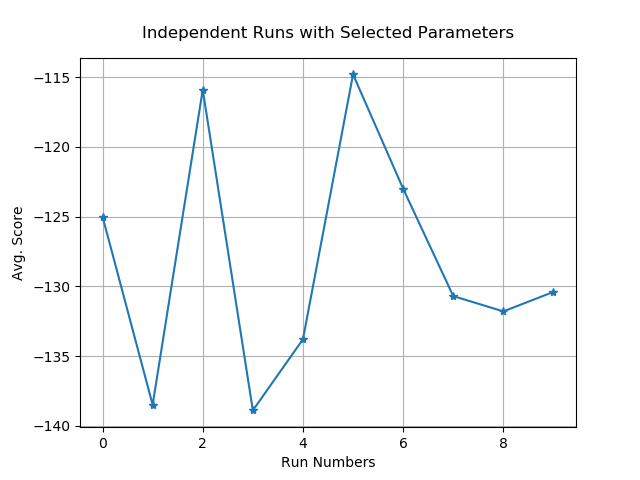
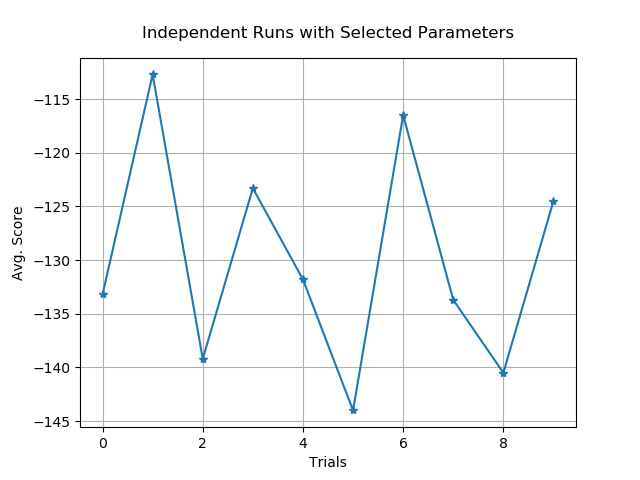
UPDATED: report.

diff --git a/Assignment9/Code/assignments/StartingPoint-QLearningMountainCar.py b/Assignment9/Code/assignments/StartingPoint-QLearningMountainCar.py
@@ -105,7 +105,7 @@ if __name__ == '__main__':
         data.append((i, avg_score))
 
     draw_accuracies([data],
-                    'Run Numbers',
+                    'Trials',
                     'Avg. Score',
                     'Independent Runs with Selected Parameters',
                     mt_cart_best_params_img_fname, [], title_y=1.03)

diff --git a/Assignment9/Report/prob1_reinforcement_gym.md b/Assignment9/Report/prob1_reinforcement_gym.md
@@ -4,21 +4,37 @@
 
 ### QLearningzCartPole
 
-| runNumber | Trial 1 | Trial 2 | Trial 3 | Trial 4 | Trial 5 | Trial 6 | Trial 7 | Trial 8 | Trial 9 | Trial 10 |
-|:-:|:-:|:-:|:-:|:-:|:-:|:-:|:-:|:-:|:-:|:-:|
-|0|200.0|200.0|200.0|200.0|200.0|200.0|200.0|200.0|200.0|200.0|
-|1|200.0|186.0|200.0|200.0|200.0|200.0|200.0|200.0|128.0|200.0|
-|2|200.0|200.0|200.0|200.0|200.0|200.0|197.0|200.0|200.0|200.0|
-|3|200.0|200.0|200.0|200.0|200.0|189.0|200.0|200.0|200.0|200.0|
-|4|200.0|200.0|200.0|200.0|200.0|200.0|200.0|200.0|125.0|200.0|
-|5|200.0|200.0|200.0|200.0|200.0|200.0|200.0|200.0|123.0|200.0|
-|6|200.0|200.0|200.0|200.0|200.0|200.0|200.0|200.0|168.0|200.0|
-|7|200.0|200.0|200.0|200.0|200.0|175.0|200.0|200.0|119.0|200.0|
-|8|200.0|200.0|200.0|200.0|200.0|182.0|200.0|200.0|129.0|200.0|
-|9|200.0|200.0|200.0|200.0|200.0|200.0|200.0|200.0|200.0|200.0|
-| Average |200.0|198.6|200.0|200.0|200.0|194.6|199.7|200.0|159.2|200.0|
+##### Run the starting point code 10 times with your implementation (learn the policy then evaluate it as in the starting point). Hand in a table of the scores you achieved on each of the 10 iterations as well as the average. [ Many runs should score 200.0 ]
+
+Ran 10 times the script and aggregate the total rewards and majority of average rewards were 200.0.
+
+  | runNumber | Trial 1 | Trial 2 | Trial 3 | Trial 4 | Trial 5 | Trial 6 | Trial 7 | Trial 8 | Trial 9 | Trial 10 |
+  |:-:|:-:|:-:|:-:|:-:|:-:|:-:|:-:|:-:|:-:|:-:|
+  |0|200.0|200.0|200.0|200.0|200.0|200.0|200.0|200.0|200.0|200.0|
+  |1|200.0|186.0|200.0|200.0|200.0|200.0|200.0|200.0|128.0|200.0|
+  |2|200.0|200.0|200.0|200.0|200.0|200.0|197.0|200.0|200.0|200.0|
+  |3|200.0|200.0|200.0|200.0|200.0|189.0|200.0|200.0|200.0|200.0|
+  |4|200.0|200.0|200.0|200.0|200.0|200.0|200.0|200.0|125.0|200.0|
+  |5|200.0|200.0|200.0|200.0|200.0|200.0|200.0|200.0|123.0|200.0|
+  |6|200.0|200.0|200.0|200.0|200.0|200.0|200.0|200.0|168.0|200.0|
+  |7|200.0|200.0|200.0|200.0|200.0|175.0|200.0|200.0|119.0|200.0|
+  |8|200.0|200.0|200.0|200.0|200.0|182.0|200.0|200.0|129.0|200.0|
+  |9|200.0|200.0|200.0|200.0|200.0|200.0|200.0|200.0|200.0|200.0|
+  | Average |200.0|198.6|200.0|200.0|200.0|194.6|199.7|200.0|159.2|200.0|
+
+***
 
 ### QLearningMountainCar
+
+##### Tune the following 4 parameters:
+
+* discountRate
+* actionProbabilityBase
+* trainingIterations
+* Assignment7Support.mountainCarBinsPerDimension
+
+##### For each produce a chart with at least 5 settings of the parameter value on the x-axis and the average score across 10 policy learning runs on the y axis (10x learn a policy then evaluate it as the sample code does, get the average score). Consider the properties of this problem and use your understanding to guide which regions you explore.
+
 
 * Average Score for Parameter Sweeps
   
@@ -35,8 +51,9 @@
   |-|-|
   | ![mt_cart_trainingIterations](img/mt_cart_trainingIterations.png)| ![mt_cart_BinsPerDimensions](img/mt_cart_BinsPerDimensions.png)|
 
-  * Action Probability Base (k) value less than and equals to 1.0  doesn't improve policy to control the carts. It means it doesn't have high Q values enough to make better the range. Increasing discount rates within chosen range get closer to the optimal action. And training iteration also helped to converge to the optimal control space. Similarly, more state space helped to reach the best results.
+  * Action Probability Base (k) value less than and equals to 1.0  doesn't improve policy to control the carts (-200). It means it doesn't have high Q values enough to make better the range. Increasing discount rates within the chosen range, 0.5 - 0.9, get closer to the optimal action. And training iteration also helped to converge to the optimal control space. Similarly, more state space helped to reach the best results.
 
+##### Produce an improved parameter setting. You may change the 4 you tuned and you may change any other that you think matters (and do additional tuning).
 * Improved parameter setting:
   Given the results of paramter sweep data, I picked following configuration.
 
@@ -49,3 +66,21 @@
   And here is the results from running 10 times policy learning.
 
   ![](img/mt_cart_best_params.png)
+
+  | runNumber | Trial 1 | Trial 2 | Trial 3 | Trial 4 | Trial 5 | Trial 6 | Trial 7 | Trial 8 | Trial 9 | Trial 10 |
+  |:-:|:-:|:-:|:-:|:-:|:-:|:-:|:-:|:-:|:-:|:-:|
+  |0|-150.0|-85.0|-147.0|-89.0|-155.0|-163.0|-138.0|-151.0|-136.0|-145.0|
+  |1|-137.0|-86.0|-146.0|-134.0|-138.0|-147.0|-97.0|-143.0|-153.0|-138.0|
+  |2|-152.0|-105.0|-93.0|-142.0|-138.0|-155.0|-147.0|-140.0|-136.0|-147.0|
+  |3|-104.0|-148.0|-144.0|-108.0|-135.0|-163.0|-94.0|-151.0|-149.0|-89.0|
+  |4|-104.0|-90.0|-143.0|-107.0|-130.0|-111.0|-106.0|-142.0|-142.0|-139.0|
+  |5|-104.0|-146.0|-145.0|-110.0|-136.0|-144.0|-137.0|-88.0|-152.0|-91.0|
+  |6|-142.0|-106.0|-145.0|-107.0|-136.0|-129.0|-139.0|-149.0|-109.0|-137.0|
+  |7|-150.0|-104.0|-142.0|-138.0|-105.0|-143.0|-94.0|-143.0|-138.0|-88.0|
+  |8|-152.0|-106.0|-143.0|-161.0|-106.0|-139.0|-107.0|-85.0|-154.0|-135.0|
+  |9|-137.0|-151.0|-144.0|-137.0|-139.0|-146.0|-106.0|-145.0|-136.0|-136.0|
+  | Average |-133.2|-112.7|-139.2|-123.3|-131.8|-144.0|-116.5|-133.7|-140.5|-124.5|
+  
+  Total average: = -129.94
+
+***

diff --git a/Assignment9/Report/mt_cart_scores.md b/Assignment9/Report/mt_cart_scores.md
@@ -1,13 +1,15 @@
 | runNumber | Trial 1 | Trial 2 | Trial 3 | Trial 4 | Trial 5 | Trial 6 | Trial 7 | Trial 8 | Trial 9 | Trial 10 |
 |:-:|:-:|:-:|:-:|:-:|:-:|:-:|:-:|:-:|:-:|:-:|
-|0|-107.0|-104.0|-107.0|-143.0|-106.0|-160.0|-136.0|-109.0|-101.0|-141.0|
-|1|-109.0|-148.0|-163.0|-136.0|-153.0|-91.0|-104.0|-110.0|-138.0|-138.0|
-|2|-144.0|-105.0|-87.0|-136.0|-150.0|-148.0|-106.0|-139.0|-139.0|-139.0|
-|3|-142.0|-149.0|-143.0|-87.0|-107.0|-84.0|-144.0|-110.0|-140.0|-139.0|
-|4|-158.0|-155.0|-107.0|-159.0|-143.0|-132.0|-137.0|-143.0|-89.0|-137.0|
-|5|-159.0|-105.0|-107.0|-150.0|-106.0|-130.0|-88.0|-149.0|-147.0|-106.0|
-|6|-107.0|-162.0|-88.0|-136.0|-107.0|-94.0|-135.0|-139.0|-137.0|-138.0|
-|7|-109.0|-149.0|-87.0|-136.0|-151.0|-93.0|-141.0|-148.0|-143.0|-140.0|
-|8|-108.0|-158.0|-164.0|-137.0|-149.0|-130.0|-134.0|-151.0|-146.0|-139.0|
-|9|-107.0|-150.0|-106.0|-169.0|-166.0|-86.0|-105.0|-109.0|-138.0|-87.0|
-| Average |-125.0|-138.5|-115.9|-138.9|-133.8|-114.8|-123.0|-130.7|-131.8|-130.4|
+|0|-150.0|-85.0|-147.0|-89.0|-155.0|-163.0|-138.0|-151.0|-136.0|-145.0|
+|1|-137.0|-86.0|-146.0|-134.0|-138.0|-147.0|-97.0|-143.0|-153.0|-138.0|
+|2|-152.0|-105.0|-93.0|-142.0|-138.0|-155.0|-147.0|-140.0|-136.0|-147.0|
+|3|-104.0|-148.0|-144.0|-108.0|-135.0|-163.0|-94.0|-151.0|-149.0|-89.0|
+|4|-104.0|-90.0|-143.0|-107.0|-130.0|-111.0|-106.0|-142.0|-142.0|-139.0|
+|5|-104.0|-146.0|-145.0|-110.0|-136.0|-144.0|-137.0|-88.0|-152.0|-91.0|
+|6|-142.0|-106.0|-145.0|-107.0|-136.0|-129.0|-139.0|-149.0|-109.0|-137.0|
+|7|-150.0|-104.0|-142.0|-138.0|-105.0|-143.0|-94.0|-143.0|-138.0|-88.0|
+|8|-152.0|-106.0|-143.0|-161.0|-106.0|-139.0|-107.0|-85.0|-154.0|-135.0|
+|9|-137.0|-151.0|-144.0|-137.0|-139.0|-146.0|-106.0|-145.0|-136.0|-136.0|
+| Average |-133.2|-112.7|-139.2|-123.3|-131.8|-144.0|-116.5|-133.7|-140.5|-124.5|
+
+Total average: = -129.94

diff --git a/Assignment9/Report/mt_cart_0.md b/Assignment9/Report/mt_cart_0.md
@@ -1,13 +1,13 @@
 | runNumber | Rewards |
 |:-:|:-:|
-|0|-107.0|
-|1|-109.0|
-|2|-144.0|
-|3|-142.0|
-|4|-158.0|
-|5|-159.0|
-|6|-107.0|
-|7|-109.0|
-|8|-108.0|
-|9|-107.0|
-| Average |-125.0|
+|0|-150.0|
+|1|-137.0|
+|2|-152.0|
+|3|-104.0|
+|4|-104.0|
+|5|-104.0|
+|6|-142.0|
+|7|-150.0|
+|8|-152.0|
+|9|-137.0|
+| Average |-133.2|

diff --git a/Assignment9/Report/mt_cart_4.md b/Assignment9/Report/mt_cart_4.md
@@ -1,13 +1,13 @@
 | runNumber | Rewards |
 |:-:|:-:|
-|0|-106.0|
-|1|-153.0|
-|2|-150.0|
-|3|-107.0|
-|4|-143.0|
-|5|-106.0|
-|6|-107.0|
-|7|-151.0|
-|8|-149.0|
-|9|-166.0|
-| Average |-133.8|
+|0|-155.0|
+|1|-138.0|
+|2|-138.0|
+|3|-135.0|
+|4|-130.0|
+|5|-136.0|
+|6|-136.0|
+|7|-105.0|
+|8|-106.0|
+|9|-139.0|
+| Average |-131.8|

diff --git a/Assignment9/Report/mt_cart_8.md b/Assignment9/Report/mt_cart_8.md
@@ -1,13 +1,13 @@
 | runNumber | Rewards |
 |:-:|:-:|
-|0|-101.0|
-|1|-138.0|
-|2|-139.0|
-|3|-140.0|
-|4|-89.0|
-|5|-147.0|
-|6|-137.0|
-|7|-143.0|
-|8|-146.0|
-|9|-138.0|
-| Average |-131.8|
+|0|-136.0|
+|1|-153.0|
+|2|-136.0|
+|3|-149.0|
+|4|-142.0|
+|5|-152.0|
+|6|-109.0|
+|7|-138.0|
+|8|-154.0|
+|9|-136.0|
+| Average |-140.5|

diff --git a/Assignment9/Report/mt_cart_3.md b/Assignment9/Report/mt_cart_3.md
@@ -1,13 +1,13 @@
 | runNumber | Rewards |
 |:-:|:-:|
-|0|-143.0|
-|1|-136.0|
-|2|-136.0|
-|3|-87.0|
-|4|-159.0|
-|5|-150.0|
-|6|-136.0|
-|7|-136.0|
-|8|-137.0|
-|9|-169.0|
-| Average |-138.9|
+|0|-89.0|
+|1|-134.0|
+|2|-142.0|
+|3|-108.0|
+|4|-107.0|
+|5|-110.0|
+|6|-107.0|
+|7|-138.0|
+|8|-161.0|
+|9|-137.0|
+| Average |-123.3|

diff --git a/Assignment9/Report/mt_cart_7.md b/Assignment9/Report/mt_cart_7.md
@@ -1,13 +1,13 @@
 | runNumber | Rewards |
 |:-:|:-:|
-|0|-109.0|
-|1|-110.0|
-|2|-139.0|
-|3|-110.0|
-|4|-143.0|
-|5|-149.0|
-|6|-139.0|
-|7|-148.0|
-|8|-151.0|
-|9|-109.0|
-| Average |-130.7|
+|0|-151.0|
+|1|-143.0|
+|2|-140.0|
+|3|-151.0|
+|4|-142.0|
+|5|-88.0|
+|6|-149.0|
+|7|-143.0|
+|8|-85.0|
+|9|-145.0|
+| Average |-133.7|

diff --git a/Assignment9/Report/mt_cart_2.md b/Assignment9/Report/mt_cart_2.md
@@ -1,13 +1,13 @@
 | runNumber | Rewards |
 |:-:|:-:|
-|0|-107.0|
-|1|-163.0|
-|2|-87.0|
-|3|-143.0|
-|4|-107.0|
-|5|-107.0|
-|6|-88.0|
-|7|-87.0|
-|8|-164.0|
-|9|-106.0|
-| Average |-115.9|
+|0|-147.0|
+|1|-146.0|
+|2|-93.0|
+|3|-144.0|
+|4|-143.0|
+|5|-145.0|
+|6|-145.0|
+|7|-142.0|
+|8|-143.0|
+|9|-144.0|
+| Average |-139.2|

diff --git a/Assignment9/Report/mt_cart_6.md b/Assignment9/Report/mt_cart_6.md
@@ -1,13 +1,13 @@
 | runNumber | Rewards |
 |:-:|:-:|
-|0|-136.0|
-|1|-104.0|
-|2|-106.0|
-|3|-144.0|
-|4|-137.0|
-|5|-88.0|
-|6|-135.0|
-|7|-141.0|
-|8|-134.0|
-|9|-105.0|
-| Average |-123.0|
+|0|-138.0|
+|1|-97.0|
+|2|-147.0|
+|3|-94.0|
+|4|-106.0|
+|5|-137.0|
+|6|-139.0|
+|7|-94.0|
+|8|-107.0|
+|9|-106.0|
+| Average |-116.5|

diff --git a/Assignment9/Report/mt_cart_5.md b/Assignment9/Report/mt_cart_5.md
@@ -1,13 +1,13 @@
 | runNumber | Rewards |
 |:-:|:-:|
-|0|-160.0|
-|1|-91.0|
-|2|-148.0|
-|3|-84.0|
-|4|-132.0|
-|5|-130.0|
-|6|-94.0|
-|7|-93.0|
-|8|-130.0|
-|9|-86.0|
-| Average |-114.8|
+|0|-163.0|
+|1|-147.0|
+|2|-155.0|
+|3|-163.0|
+|4|-111.0|
+|5|-144.0|
+|6|-129.0|
+|7|-143.0|
+|8|-139.0|
+|9|-146.0|
+| Average |-144.0|

diff --git a/Assignment9/Report/mt_cart_1.md b/Assignment9/Report/mt_cart_1.md
@@ -1,13 +1,13 @@
 | runNumber | Rewards |
 |:-:|:-:|
-|0|-104.0|
-|1|-148.0|
+|0|-85.0|
+|1|-86.0|
 |2|-105.0|
-|3|-149.0|
-|4|-155.0|
-|5|-105.0|
-|6|-162.0|
-|7|-149.0|
-|8|-158.0|
-|9|-150.0|
-| Average |-138.5|
+|3|-148.0|
+|4|-90.0|
+|5|-146.0|
+|6|-106.0|
+|7|-104.0|
+|8|-106.0|
+|9|-151.0|
+| Average |-112.7|
